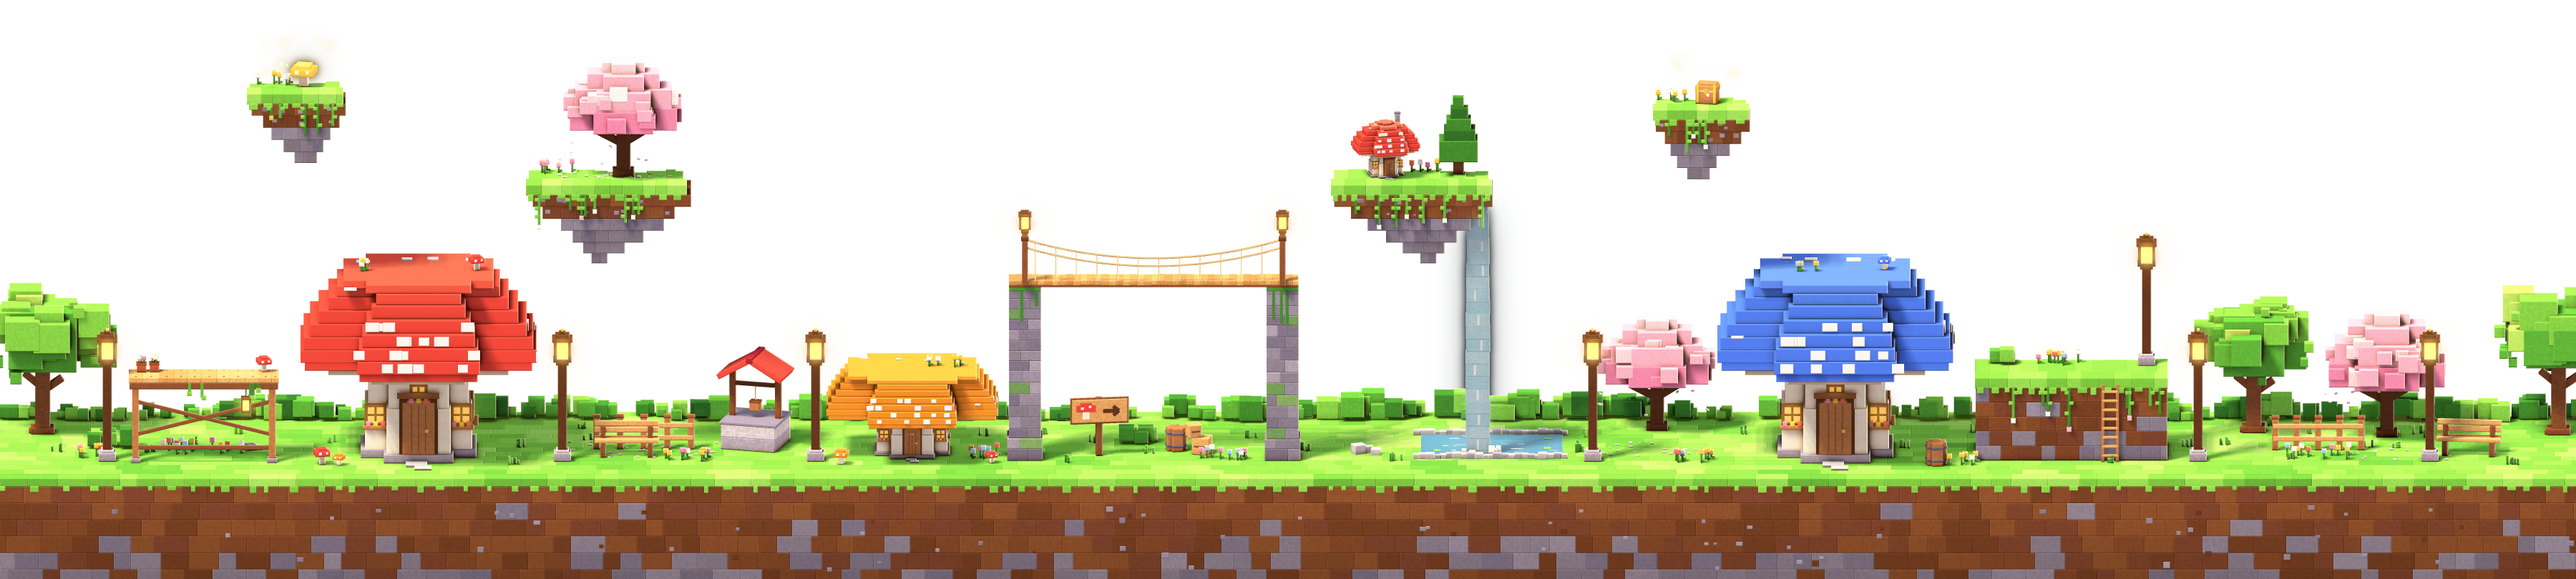
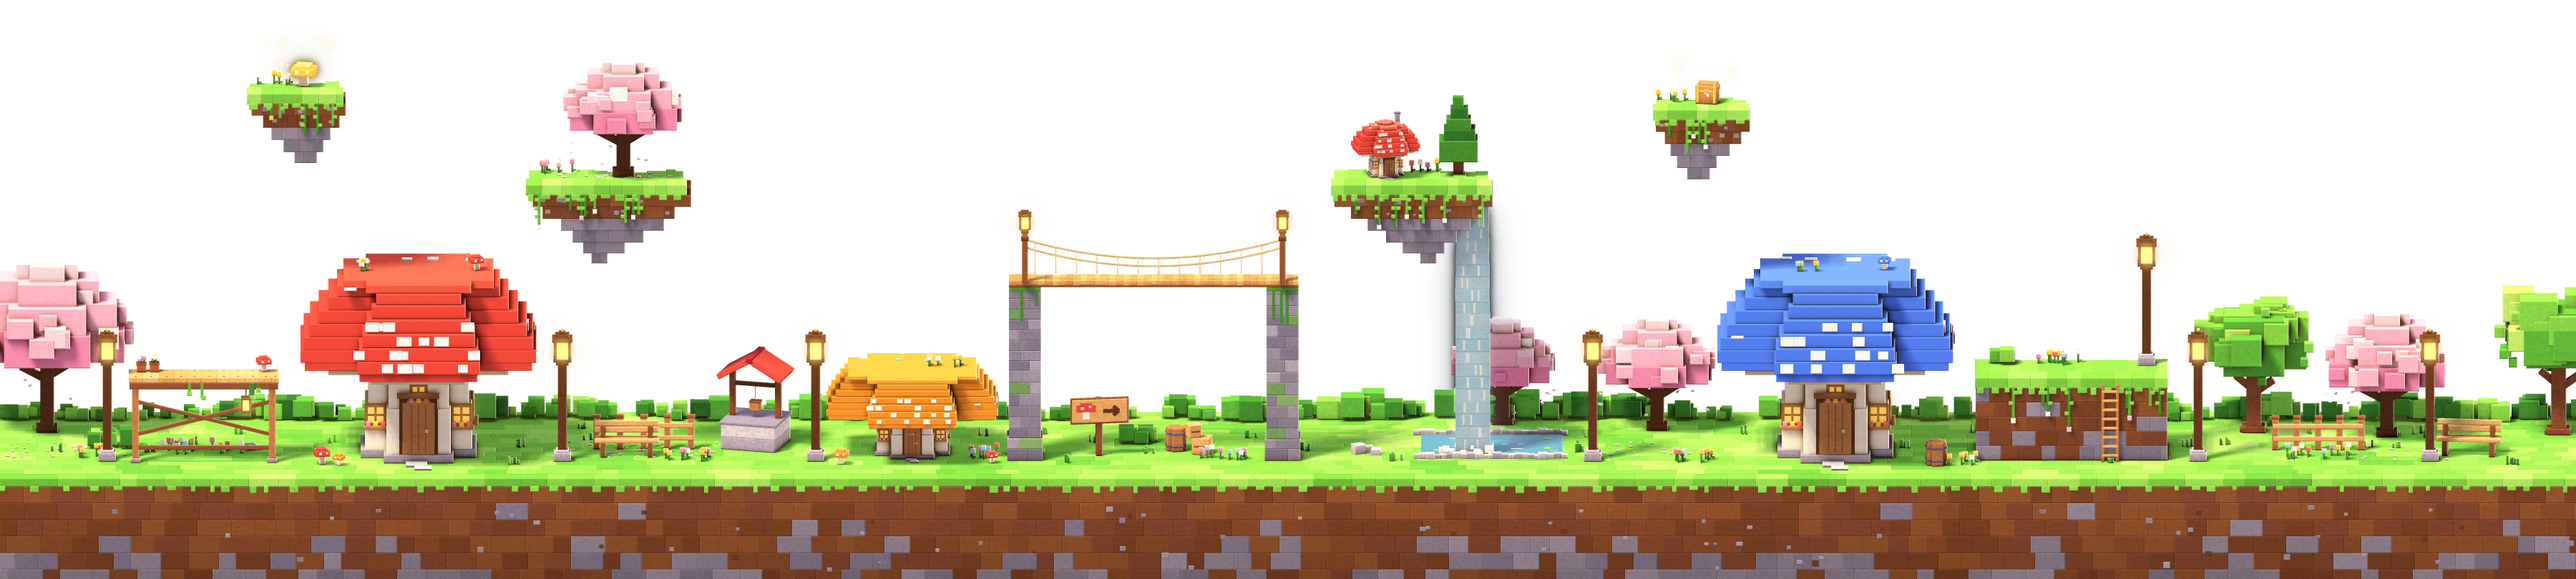
Cycle 8 map: Canva-based village with 10 one-way platforms
Claude-Session: https://claude.ai/code/session_01RPsSfRZpKGJi1D53R2kF71

Changed region(s): [[0.56, 0.4012, 0.6222, 0.8025], [0.0, 0.463, 0.0622, 0.7716], [0.0622, 0.7099, 0.0933, 0.7407]]

diff --git a/assets/_src/voxel_map/scene.py b/assets/_src/voxel_map/scene.py
@@ -81,7 +81,7 @@ def ground_base(seed=11, x0=-24, x1=1224):
 def waterfall(x, top, z, w=7.0, seed=0):
     """x 중심, top 에서 지면(0)까지 떨어지는 폭포 + 물보라."""
     rng = np.random.default_rng(seed)
-    bx = []
+    bx = [B(x, top + 0.6, z - 1.0, w + 3.0, 2.4, 6.0, '#DDF4FF', noise=0.03, bevel=0.4, emit=('#FFFFFF', 0.15))]
     yy = top
     k = 0
     while yy > 0.5:
@@ -90,13 +90,13 @@ def waterfall(x, top, z, w=7.0, seed=0):
         bx.append(B(x + rng.uniform(-0.25, 0.25), yy - hh / 2, z, ww, hh + 0.15, 3.0,
                     ('#A8DEFA', '#C4EAFE', '#B6E4FC')[k % 3], noise=0.05, bevel=0.3, emit=('#DDF4FF', 0.10)))
         # 흰 물줄기 결
-        if k % 2 == 0:
-            bx.append(B(x + rng.uniform(-w / 3, w / 3), yy - hh / 2, z + 1.6, 1.0, hh * 0.8, 0.4, '#FFFFFF', noise=0,
+        for _ in range(2):
+            bx.append(B(x + rng.uniform(-w / 2.6, w / 2.6), yy - hh / 2, z + 1.6, 1.0, hh * 0.8, 0.4, '#FFFFFF', noise=0,
                         bevel=0.1, emit=('#FFFFFF', 0.15)))
         yy -= hh; k += 1
     # 물보라 큐브
-    for j in range(10):
-        s_ = rng.uniform(1.6, 3.6)
+    for j in range(18):
+        s_ = rng.uniform(1.6, 4.2)
         bx.append(B(x + rng.uniform(-w, w), rng.uniform(0.5, 4.5), z + rng.uniform(-2, 4), s_, s_, s_, '#FFFFFF',
                     noise=0.02, bevel=0.3))
     return bx
@@ -225,7 +225,7 @@ def platform_props():
     add(P.mushroom_house('red', 40, seed=77, chimney=True), i['cx'] - 12, i['Yt'], i['zb'] + 9, 14, 0.3)
     add(P.pine(78, h=36, r=9), i['cx'] + 22, i['Yt'], i['zb'] + 6)
     add(P.flowers(79, 14, 3, 5), i['cx'] + 6, i['Yt'], i['zb'] + 5)
-    L.extend(waterfall(byid['isle-falls']['x2'] / 2 - 6.5, i['Yt'] - 5.0, -30.0, 10.0, 80))
+    L.extend(waterfall(byid['isle-falls']['x2'] / 2 - 9.0, i['Yt'] - 5.0, -30.0, 15.0, 80))
     # 파란 갓 윗면 뒤
     h = I['blue-cap']
     add(P.mushroom_small(81, 'blue', 0.8), 878, h['Yt'], h['z0'] - 17, -10)

diff --git a/docs/handoff/art-20261028-c8-map.md b/docs/handoff/art-20261028-c8-map.md
@@ -1,0 +1,100 @@
+# art -> main/front: 사이클 8 맵 (Canva 시안 + 점프 발판)
+
+날짜: 2026-10-28 / 담당: 아트(맵)
+상태: **납품**. `assets/map/` 5개 레이어를 다시 구웠고, manifest에 `platforms`를 추가했다. 계약: ARCHITECTURE "복셀 아트 계약", "사이클 8 계약(발판)". 월드 2400x540, 밀도 1.5, 지면선 y=440, 렌더러와 조명 규칙은 그대로 유지했다.
+
+## 1. 빌드 / 검사
+
+```
+python3 assets/_src/voxel_map/build.py                      # 전체 (약 12분, 2코어. ground만 약 5분)
+python3 assets/_src/voxel_map/build.py --only ground
+python3 assets/_src/voxel_map/check.py [--fast] [--determinism]
+python3 assets/_src/voxel_map/preview.py OUT --ref 시안.png
+```
+
+- 새 파일 `platforms.py`: **발판 정본 표 `PLATFORMS`**와 발판 모델(선반, 섬, 다리, 단구, 버섯 집 갓)을 담는다. build.py는 manifest `platforms`를 이 표에서 쓰고, scene.py는 같은 값으로 그림을 만든다.
+- `vox.py`: `top_mask()`를 추가했다. 조명 없이 z-버퍼만 계산해, 각 픽셀에서 'top' 태그 윗면이 보이는 비율을 돌려준다(검사용).
+- `props.py`: `mushroom_house`에 `slabs/top_cut/info/sw` 인자를 추가했다. 갓 맨 위 슬랩이 평평한 발판이 된다.
+- `check.py`에 추가한 발판 검사:
+  - 형식과 키, manifest와 정본 표의 일치
+  - x/y 범위, 너비 80 이상
+  - 일반 층 간격 85~95, 최고 층 y≤170, 개수 6~10
+  - 일반 발판: 아래 층에서 일반 점프(105)로 닿는지(가로 거리 70 이내)
+  - 비밀 발판: 일반 점프로는 닿지 않고 슈퍼 점프(225)로는 닿는지
+  - ground.webp의 서는 선 행이 불투명한지
+  - 렌더 마스크 기준으로 서는 선 행이 윗면으로 95% 이상 덮이는지, 그림의 좌우 끝이 x1/x2와 ±1.5 이내인지, 윗면 띠가 서는 선을 감싸는지
+- 결과: 전체 통과(OK). `--determinism`은 md5 2회가 같았다. 합계 **1.70 MB** (한도 6 MB).
+
+## 2. 발판 (`assets/map/manifest.json` → `platforms`, 월드 단위, y = 윗면 = 서는 높이, 한 방향 통과)
+
+| id | 종류 | x1 | x2 | y | 오르는 길 |
+|---|---|---|---|---|---|
+| shelf-left | 나무 선반(기둥, 매단 랜턴, 화분) | 120 | 260 | 350 | 지면 |
+| red-cap | 빨강 버섯 집 갓 윗면 | 320 | 460 | 260 | shelf-left |
+| isle-cherry | 떠 있는 잔디 섬 + 벚나무 | 490 | 640 | 170 | red-cap |
+| orange-cap | 주황 버섯 오두막 갓 윗면 | 790 | 910 | 350 | 지면 |
+| rope-bridge | 흔들다리(돌 교각, 처진 밧줄 난간, 기둥 랜턴) | 940 | 1210 | 260 | orange-cap |
+| isle-falls | 떠 있는 섬 + 작은 버섯 집 + 폭포(아래 연못) | 1240 | 1390 | 170 | rope-bridge |
+| blue-cap | 파랑 버섯 집 갓 윗면 | 1640 | 1780 | 260 | cliff-right |
+| cliff-right | 잔디 단구(지면에서 솟은 절벽, 사다리 장식) | 1840 | 2020 | 350 | 지면 |
+| secret-sky | **비밀**: 작은 섬 + 빛나는 금빛 버섯 | 230 | 320 | 85 | red-cap에서 슈퍼 점프 |
+| secret-chest | **비밀**: 작은 섬 + 보물 상자 | 1540 | 1630 | 100 | blue-cap에서 슈퍼 점프 |
+
+- 층: 지면 440 → 350 → 260 → 170(간격 90). 비밀 발판은 가장 가까운 일반 발판에서 가로로 150 이상 떨어져 있어 일반 점프로는 닿지 않는다.
+- 그림과 좌표: 윗면은 서는 선의 깊이 z0에서 화면 y가 정확히 manifest y가 되도록 높이를 계산했다(`platforms.top_Y`). 윗면은 서는 선 뒤로 약 4~24 월드 펼쳐지고, 앞 가장자리는 서는 선보다 약 2~5 아래에 있다. 그래서 발이 윗면 앞쪽에 놓여 보인다. 좌우 끝은 x1/x2와 일치한다(검사 기준 ±0).
+- 장식은 모두 서는 선보다 뒤에 있다. 캐릭터 발 앞을 가리는 것은 없다. 흔들다리는 앞 난간 밧줄만 서는 선 위쪽으로 지나간다.
+- 버섯 갓은 아래 슬랩이 윗면보다 좌우로 약 20~40 더 넓다(둥근 갓 모양). 서는 구간은 manifest x1~x2뿐이다.
+
+## 3. 레이어
+
+| 파일 | parallax | y | px | 월드 | repeatX | 용량 | 변경 |
+|---|---|---|---|---|---|---|---|
+| sky.png | 0 | 0 | 16x810 | 10.7x540 | false(stretchX) | 3 KB | 오후 톤으로 조금 더 따뜻하게 |
+| clouds.webp | 0.12 | 10 | 2700x330 | 1800x220 | true | 29 KB | 그대로 |
+| far.webp | 0.3 | 120 | 3000x480 | 2000x320 | true | 352 KB | 파스텔 라벤더 뾰족 산, 분홍/하늘 고깔 성(탑 6), 언덕에 벚꽃 점. 떠 있는 섬은 **제거**(발판으로 오해할 수 있어서) |
+| mid.webp | 0.65 | 170 | 3000x405 | 2000x270 | true | 427 KB | 오두막을 작은 버섯 집 6채로 교체(창 발광), 벚꽃 비율 늘림 |
+| ground.webp | 1.0 | **0** (이전 110) | 3600x810 | 2400x540 | false | 867 KB | 발판 10개, 큰 벚나무, 폭포와 연못, 소품 재배치 |
+
+- 프런트 영향: ground 레이어의 `y`가 110에서 0으로 바뀌었다. manifest 값을 그대로 읽으면 따로 할 일은 없다. 지면선 행(y=440)은 전 구간 불투명이다.
+
+## 4. 프런트 참고
+
+- 발판 물리는 manifest `platforms`만 쓰면 된다(그림과 일치함). 지면(440)은 암묵적 바닥이다.
+- **카메라**: 현재 `cameraFor`는 화면 아래 끝이 월드 540에 고정된다. 데스크톱(시야 높이 540)에서는 y=85 비밀 발판까지 보인다. 모바일이나 낮은 창(시야 160~400)에서는 위쪽 층이 화면 밖으로 나간다. 캐릭터 y를 따라가는 세로 카메라가 필요하다(프런트 담당).
+- 발 그림자는 발판 y에 그리면 된다(미리보기는 반투명 타원 알파 0.25로 확인함).
+
+## 5. 미리보기 (스크래치 `c8map/`)
+
+`/tmp/claude-0/-home-claude/32cd137b-a08b-5b56-b439-13acd387c199/scratchpad/c8map/` 안의 파일:
+- `map_full.png`: 왼쪽 시안, 오른쪽 전체 맵
+- `platforms_debug.png`: 빨간 선 = manifest 발판과 id
+- `platforms_zoom.png`: 발판별 2배 확대
+- `with_char.png`: 프리셋 6종을 지면과 350/260/170, 비밀 발판에 세운 화면 2개(P=2)
+- `with_char_p3.png`: P=3 확대
+- `view_desktop.png`
+- 회차별 미리보기: `r1/`, `r2/`. 발판 단독 테스트: `plat0*.png`, `plat1*.png`
+
+## 6. 회차 기록
+
+1. 발판만 따로 렌더해 좌표와 그림이 맞는지 확인했다. 갓 테두리가 옆 선반, 단구와 높이가 겹쳐서 배치를 다시 짰다(선반 120~260, 파랑 집과 단구 순서 교체). 갓을 8단 둥근 프로파일로 바꾸고 교각을 엇갈린 벽돌과 이끼로 만들었다.
+2. 전체 합성 1차: 파랑 갓 윗면이 얼음처럼 창백했고, 폭포가 파이프처럼 보였다. far의 옛 떠 있는 섬은 가짜 발판처럼 보였고, 원경은 시안 분위기가 부족했다. 갓 윗면 색을 조정하고 윗면 뒤쪽에 흰 점을 넣었다. far를 파스텔 산과 성으로 바꾸고 섬을 제거했다. mid에 버섯 마을을 넣고 하늘을 오후 톤으로 바꿨다.
+3. 산이 바늘처럼 가늘어서 넓혔다. 다리의 앞 세로 밧줄이 서는 선을 가려(윗면 89%) 뒤 난간에만 남겼다(95%). 왼쪽 끝에 큰 벚나무, 연못 뒤에 벚나무를 추가했다.
+4. 폭포 폭을 1.5배로 넓히고 윗부분 물마루, 흰 물줄기, 물보라를 늘렸다. 최종 검사와 결정성 확인을 마쳤다.
+
+## 7. 자기 평가 (10점)
+
+| 항목 | 점수 | 메모 |
+|---|---|---|
+| 시안 분위기 | 6 | 버섯 집 3색, 떠 있는 섬, 흔들다리, 폭포, 벚꽃, 랜턴, 파스텔 산과 성, 큐브 구름은 갖췄다. 시안의 노을빛 역광, 빽빽한 겹침, 앞쪽 물길은 약하다 |
+| 발판 가독성/정확도 | 9 | 밝은 윗면과 어두운 아랫면으로 잘 구분된다. 그림과 좌표가 렌더 마스크 기준으로 일치하고, 발이 붙어 보인다 |
+| 종류 다양성 | 8 | 선반, 섬, 갓 3개, 다리, 단구, 비밀 섬 2개 |
+| 캐릭터와 스타일 통일 | 8 | 같은 렌더러와 조명을 쓴다 |
+| 원경 | 6 | 산이 계단 피라미드라 단순하다. 성은 작게 보인다 |
+| 종합 | 7 | |
+
+## 8. 알려진 문제 / 다음 후보
+
+- 앞 흙 단면(y 446~540)은 이전과 같아서 시안의 물길이나 계단식 앞 지형은 없다(지면선 계약 유지).
+- 주황 오두막 갓은 넓고 납작해 케이크처럼 보이기도 한다.
+- 흔들다리는 윗면 덮임이 95%로 검사 한계선이다. 양 끝 기둥이 서는 선 일부를 가린다.
+- 결정성: 부분 렌더(구름 600px + 지면 타일 1개 + 하늘)는 md5 2회가 같았다. 전체 지면을 두 번 빌드해 비교하지는 않았다. 현재 ground.webp md5는 c384057174e31e971927e468c58b3090.
